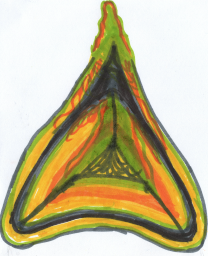
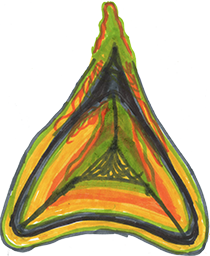
Fix player background transparency

Changed region(s): [[0.0, 0.0, 1.0, 1.0], [0.5481, 0.4688, 0.5769, 0.5]]

diff --git a/src/player.rs b/src/player.rs
@@ -6,7 +6,7 @@ pub struct PlayerPlugin;
 
 const PLAYER_MAX_SPEED: f32 = 128f32;
 const PLAYER_IMAGE_HEIGHT: f32 = 256f32;
-const PLAYER_IMAGE_WIDTH: f32 = 208f32;
+const PLAYER_IMAGE_WIDTH: f32 = 210f32;
 
 pub const PLAYER_HEIGHT: f32 = 16f32;
 pub const PLAYER_WIDTH: f32 = PLAYER_IMAGE_WIDTH * PLAYER_HEIGHT / PLAYER_IMAGE_HEIGHT;
